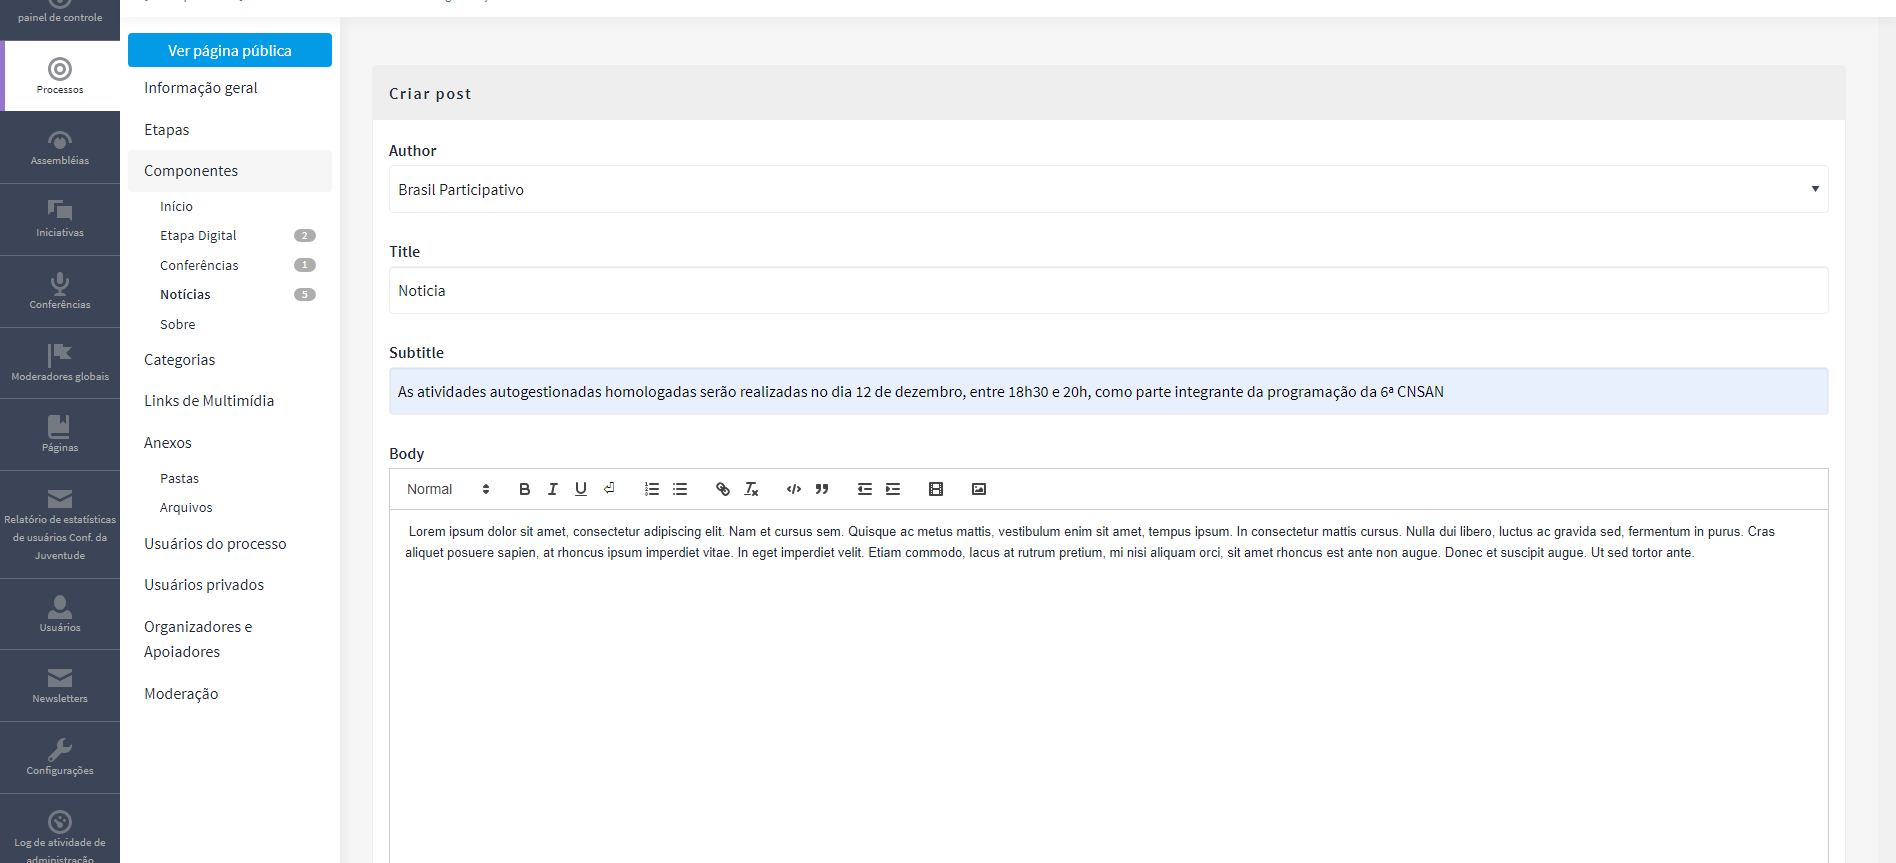
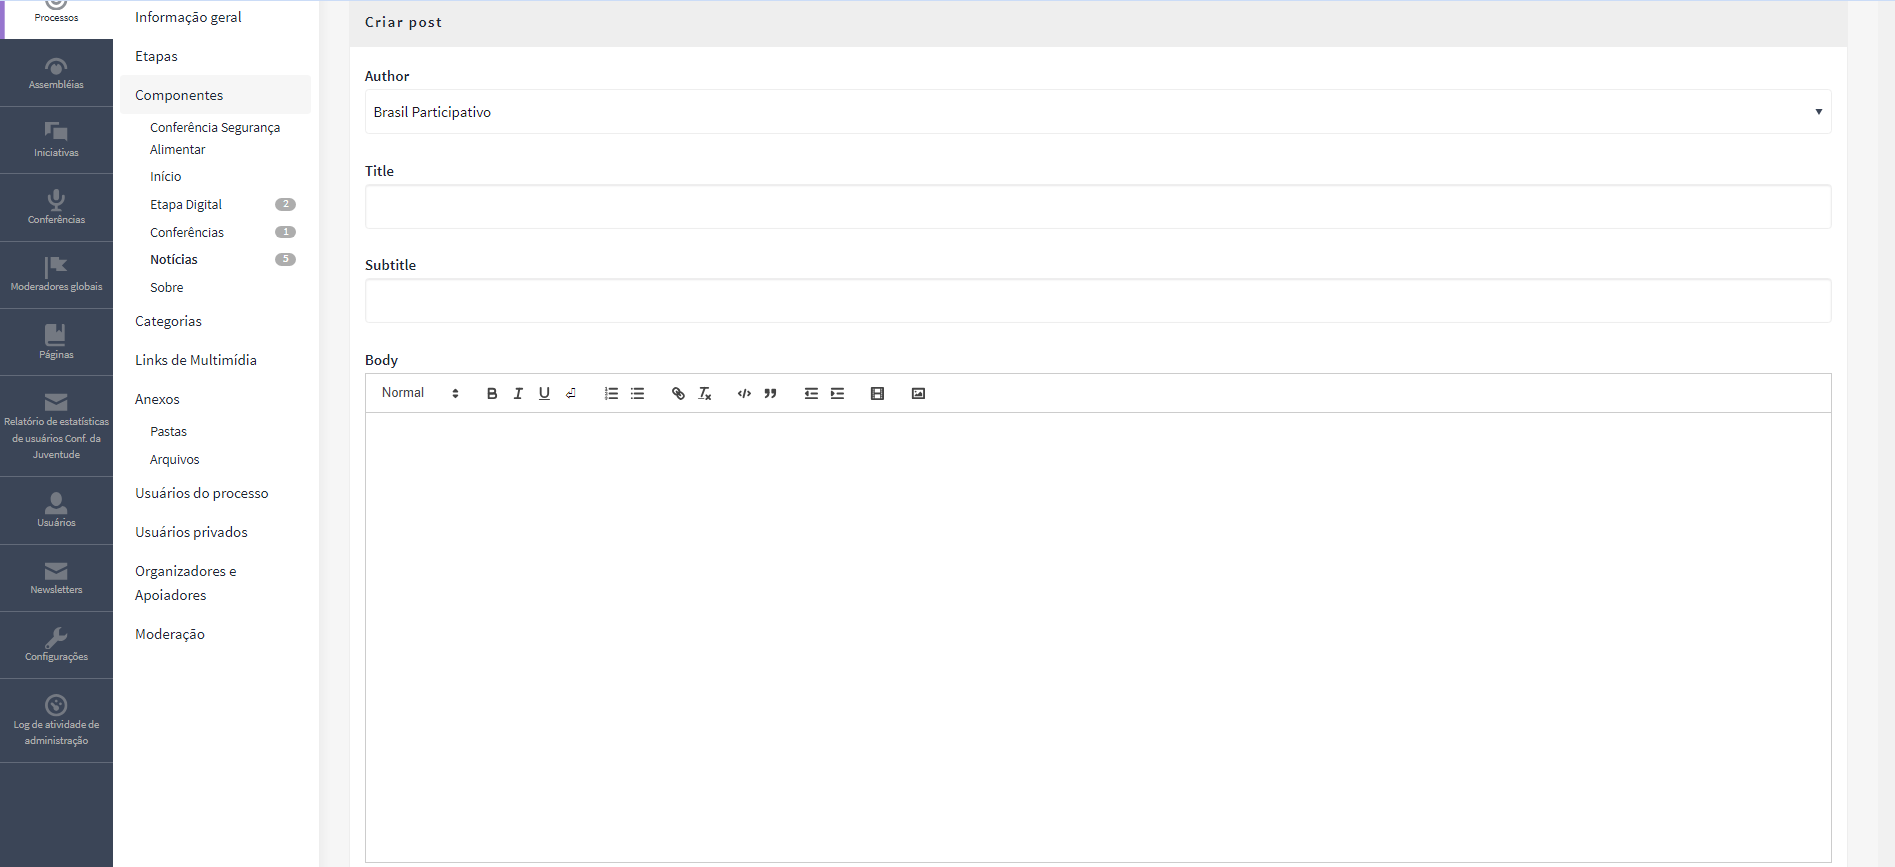
adicionando notícias e sobre

diff --git a/docs/tutoriais/Conferencias/jornadacomissaoorg.md b/docs/tutoriais/Conferencias/jornadacomissaoorg.md
@@ -386,7 +386,7 @@ Agenda Conferência Nacional: agenda com detalhes sobre a conferência nacional,
 ### <p id="3.4">3.4. Notícias</p>
 
 <p align="justify">
-&emsp;&emsp; Esta página está destinada as publicação das notícias na plataforma. As Imagens 37 e 38 exibe como as notícias aparecem no site. 
+&emsp;&emsp; Esta página está destinada as publicação das notícias na plataforma. As Imagens 37 e 38 exibem como as notícias aparecem no site. 
 </p>
 
 <figure markdown>
@@ -406,9 +406,8 @@ Agenda Conferência Nacional: agenda com detalhes sobre a conferência nacional,
 </p> 
 
 <p align="justify">
-&emsp;&emsp; No painel de Componentes, duas ações podem ser realizadas com Notícias: </p>
+No painel de Componentes, duas ações podem ser realizadas com Notícias: </p>
 
- - <a href="#3.4.1">Configurar<sup></sup></a> - ícone de engrenagem, assinalado em vermelho na Imagem 39.
  - <a href="#3.4.2">Gerenciar<sup></sup></a> - ícone de lápis, assinalado em azul na Imagem 39
 
 <figure markdown>
@@ -442,17 +441,102 @@ Agenda Conferência Nacional: agenda com detalhes sobre a conferência nacional,
 
 #### <p id="3.4.2">Gerenciar</p>
 
-TODO
+<p align="justify">
+Em gerenciar Notícias é possível administrar: </p>
+
+ - <a href="#opcao1">Criar novas postagens<sup></sup></a> - para adicionar uma nova postagem deve-se clicar no botão Nova postagem, assinalado em vermelho na Imagem 40.
+ - <a href="#opcao2">Editar postagens existentes<sup></sup></a> - para editar uma postagem deve-se clicar no ícone de lápis, assinalado em azul na Imagem 39
+ - <a href="#opcao3">Adicionar pastas<sup></sup></a> - para adicionar uma nova pasta deve-se clicar no ícone de pasta, assinalado em verde na Imagem 39
+ - <a href="#opcao3">Adicionar anexos<sup></sup></a> - para adicionar anexos postagem deve-se clicar no ícone de clipe, assinalado em amarelo na Imagem 39
+
+<figure markdown>
+<img src= "https://gitlab.com/lappis-unb/decidimbr/documentacao/-/raw/main/docs/assetsTutoriais/conferencias/noticias_gerenciar.png?ref_type=heads" alt="Jornada Presidencia" style="float: none; margin: auto"> 
+</figure>
+
+<p align="justify">
+<h6 align = "center">Imagem 40 (Fonte: DECIDIM 2024)</h6>
+</p> 
+
+##### <p id="opcao1">Criar novas postagens</p>
+
+<p align="justify">
+&emsp;&emsp; Após selecionar o botão Nova proposta como indicado em vermelho na Imagem 40, a página de Criar post (Imagem 41) é exibida, ela contém os campos a serem preenchidos para uma postagem. Os campos obrigatórios são apenas Título e Subtítulo, o Body (corpo do texto) pode ficar em branco caso a notícia seja de apenas anexos.</p>
+
+<figure markdown>
+<img src= "https://gitlab.com/lappis-unb/decidimbr/documentacao/-/raw/main/docs/assetsTutoriais/conferencias/nova_noticia.png?ref_type=heads" alt="Jornada Presidencia" style="float: none; margin: auto"> 
+</figure>
+
+<p align="justify">
+<h6 align = "center">Imagem 41 (Fonte: DECIDIM 2024)</h6>
+</p> 
+
+<p align="justify">
+&emsp;&emsp; A Imagem 42 apresenta os campos preenchidos da notícia, no campo do corpo do texto (Body) é possível adicionar além do texto, como mostrado na imagem. Após adicionar todas as iformações, confirmar a criação clicando no botão <b>Criar</b>.</p>
+
+<figure markdown>
+<img src= "https://gitlab.com/lappis-unb/decidimbr/documentacao/-/raw/main/docs/assetsTutoriais/conferencias/nova_noticia1.png?ref_type=heads" alt="Jornada Presidencia" style="float: none; margin: auto"> 
+</figure>
+
+<p align="justify">
+<h6 align = "center">Imagem 42 (Fonte: DECIDIM 2024)</h6>
+</p>
+
+##### <p id="opcao2">Editar postagens existentes</p>
+
+<p align="justify">
+&emsp;&emsp; A Imagem 43 apresenta os campos já preenchidos da notícia, assim como na criação os campos obrigatórios de estarem completos são apenas Título e Subtítulo, o Body (corpo do texto) pode ficar em branco. Após mudar as iformações necessárias, confirmar a atualização clicando no botão <b>Atualizar</b>.</p>
+
+<figure markdown>
+<img src= "https://gitlab.com/lappis-unb/decidimbr/documentacao/-/raw/main/docs/assetsTutoriais/conferencias/edit_noticia.png?ref_type=heads" alt="Jornada Presidencia" style="float: none; margin: auto"> 
+</figure>
+
+<p align="justify">
+<h6 align = "center">Imagem 43 (Fonte: DECIDIM 2024)</h6>
+</p>
+
 
 ### <p id="3.5">3.5. Sobre</p>
 
- Informações gerais da conferência, Documentos (Decreto, regimento interno, etc), perguntas frequêntes, termo de uso, políticas de Privacidade
+<p align="justify">
+&emsp;&emsp; O Sobre contém Informações gerais da conferência, Documentos (Decreto, regimento interno, etc), perguntas frequêntes, termo de uso, políticas de Privacidade. A Imagem 44 apresenta as funcionalidades no componente sobre: </p>
 
-TODO: O que é e quais as principais seções necessárias
+ - <a href="#3.5.1">Configurar<sup></sup></a> - ícone da engrenagem, assinalado em vermelho na Imagem 44
+ - <a href="#3.5.2">Gerenciar<sup></sup></a> - ícone de lápis, assinalado em azul na Imagem 44
 
-perguntas frequentes
-regimentos
 
+<figure markdown>
+<img src= "https://gitlab.com/lappis-unb/decidimbr/documentacao/-/raw/main/docs/assetsTutoriais/conferencias/sobre_opcoes.png?ref_type=heads" alt="Jornada Presidencia" style="float: none; margin: auto"> 
+</figure>
+
+<p align="justify">
+<h6 align = "center">Imagem 44 (Fonte: DECIDIM 2024)</h6>
+</p>
+
+#### <p id="3.5">3.5.1 Configurar</p>
+
+<p align="justify">
+&emsp;&emsp; É possível adicionar anúncios que mudam a cada etapa, se adequando a necessidade da etapa atual. As configurações globais (Imagem 45) é o texto de anúncio válido para todas as etapas que não forem preenchidas com outro anúncio. Para cada etapa é possível definir um anúncio específico, como mostrado para a Etapa 00 na Imagem 45.</p>
+
+<figure markdown>
+<img src= "https://gitlab.com/lappis-unb/decidimbr/documentacao/-/raw/main/docs/assetsTutoriais/conferencias/sobre_config.png?ref_type=heads" alt="Jornada Presidencia" style="float: none; margin: auto"> 
+</figure>
+
+<p align="justify">
+<h6 align = "center">Imagem 45 (Fonte: DECIDIM 2024)</h6>
+</p>
+
+#### <p id="3.5">3.5.2 Gerenciar</p>
+
+<p align="justify">
+&emsp;&emsp; Nessa aba há um campo de texto (Imagem 46) para escrever o sobre da sua conferência, é possível adicionar textos e imagens necessários para as Informações gerais da conferência, Documentos (Decreto, regimento interno, etc), perguntas frequêntes, termo de uso, políticas de Privacidade. </p>
+
+<figure markdown>
+<img src= "https://gitlab.com/lappis-unb/decidimbr/documentacao/-/raw/main/docs/assetsTutoriais/conferencias/sobre_edit.png?ref_type=heads" alt="Jornada Presidencia" style="float: none; margin: auto"> 
+</figure>
+
+<p align="justify">
+<h6 align = "center">Imagem 46 (Fonte: DECIDIM 2024)</h6>
+</p>
 
 ### <p id="4">4. Categorias</p>
 
